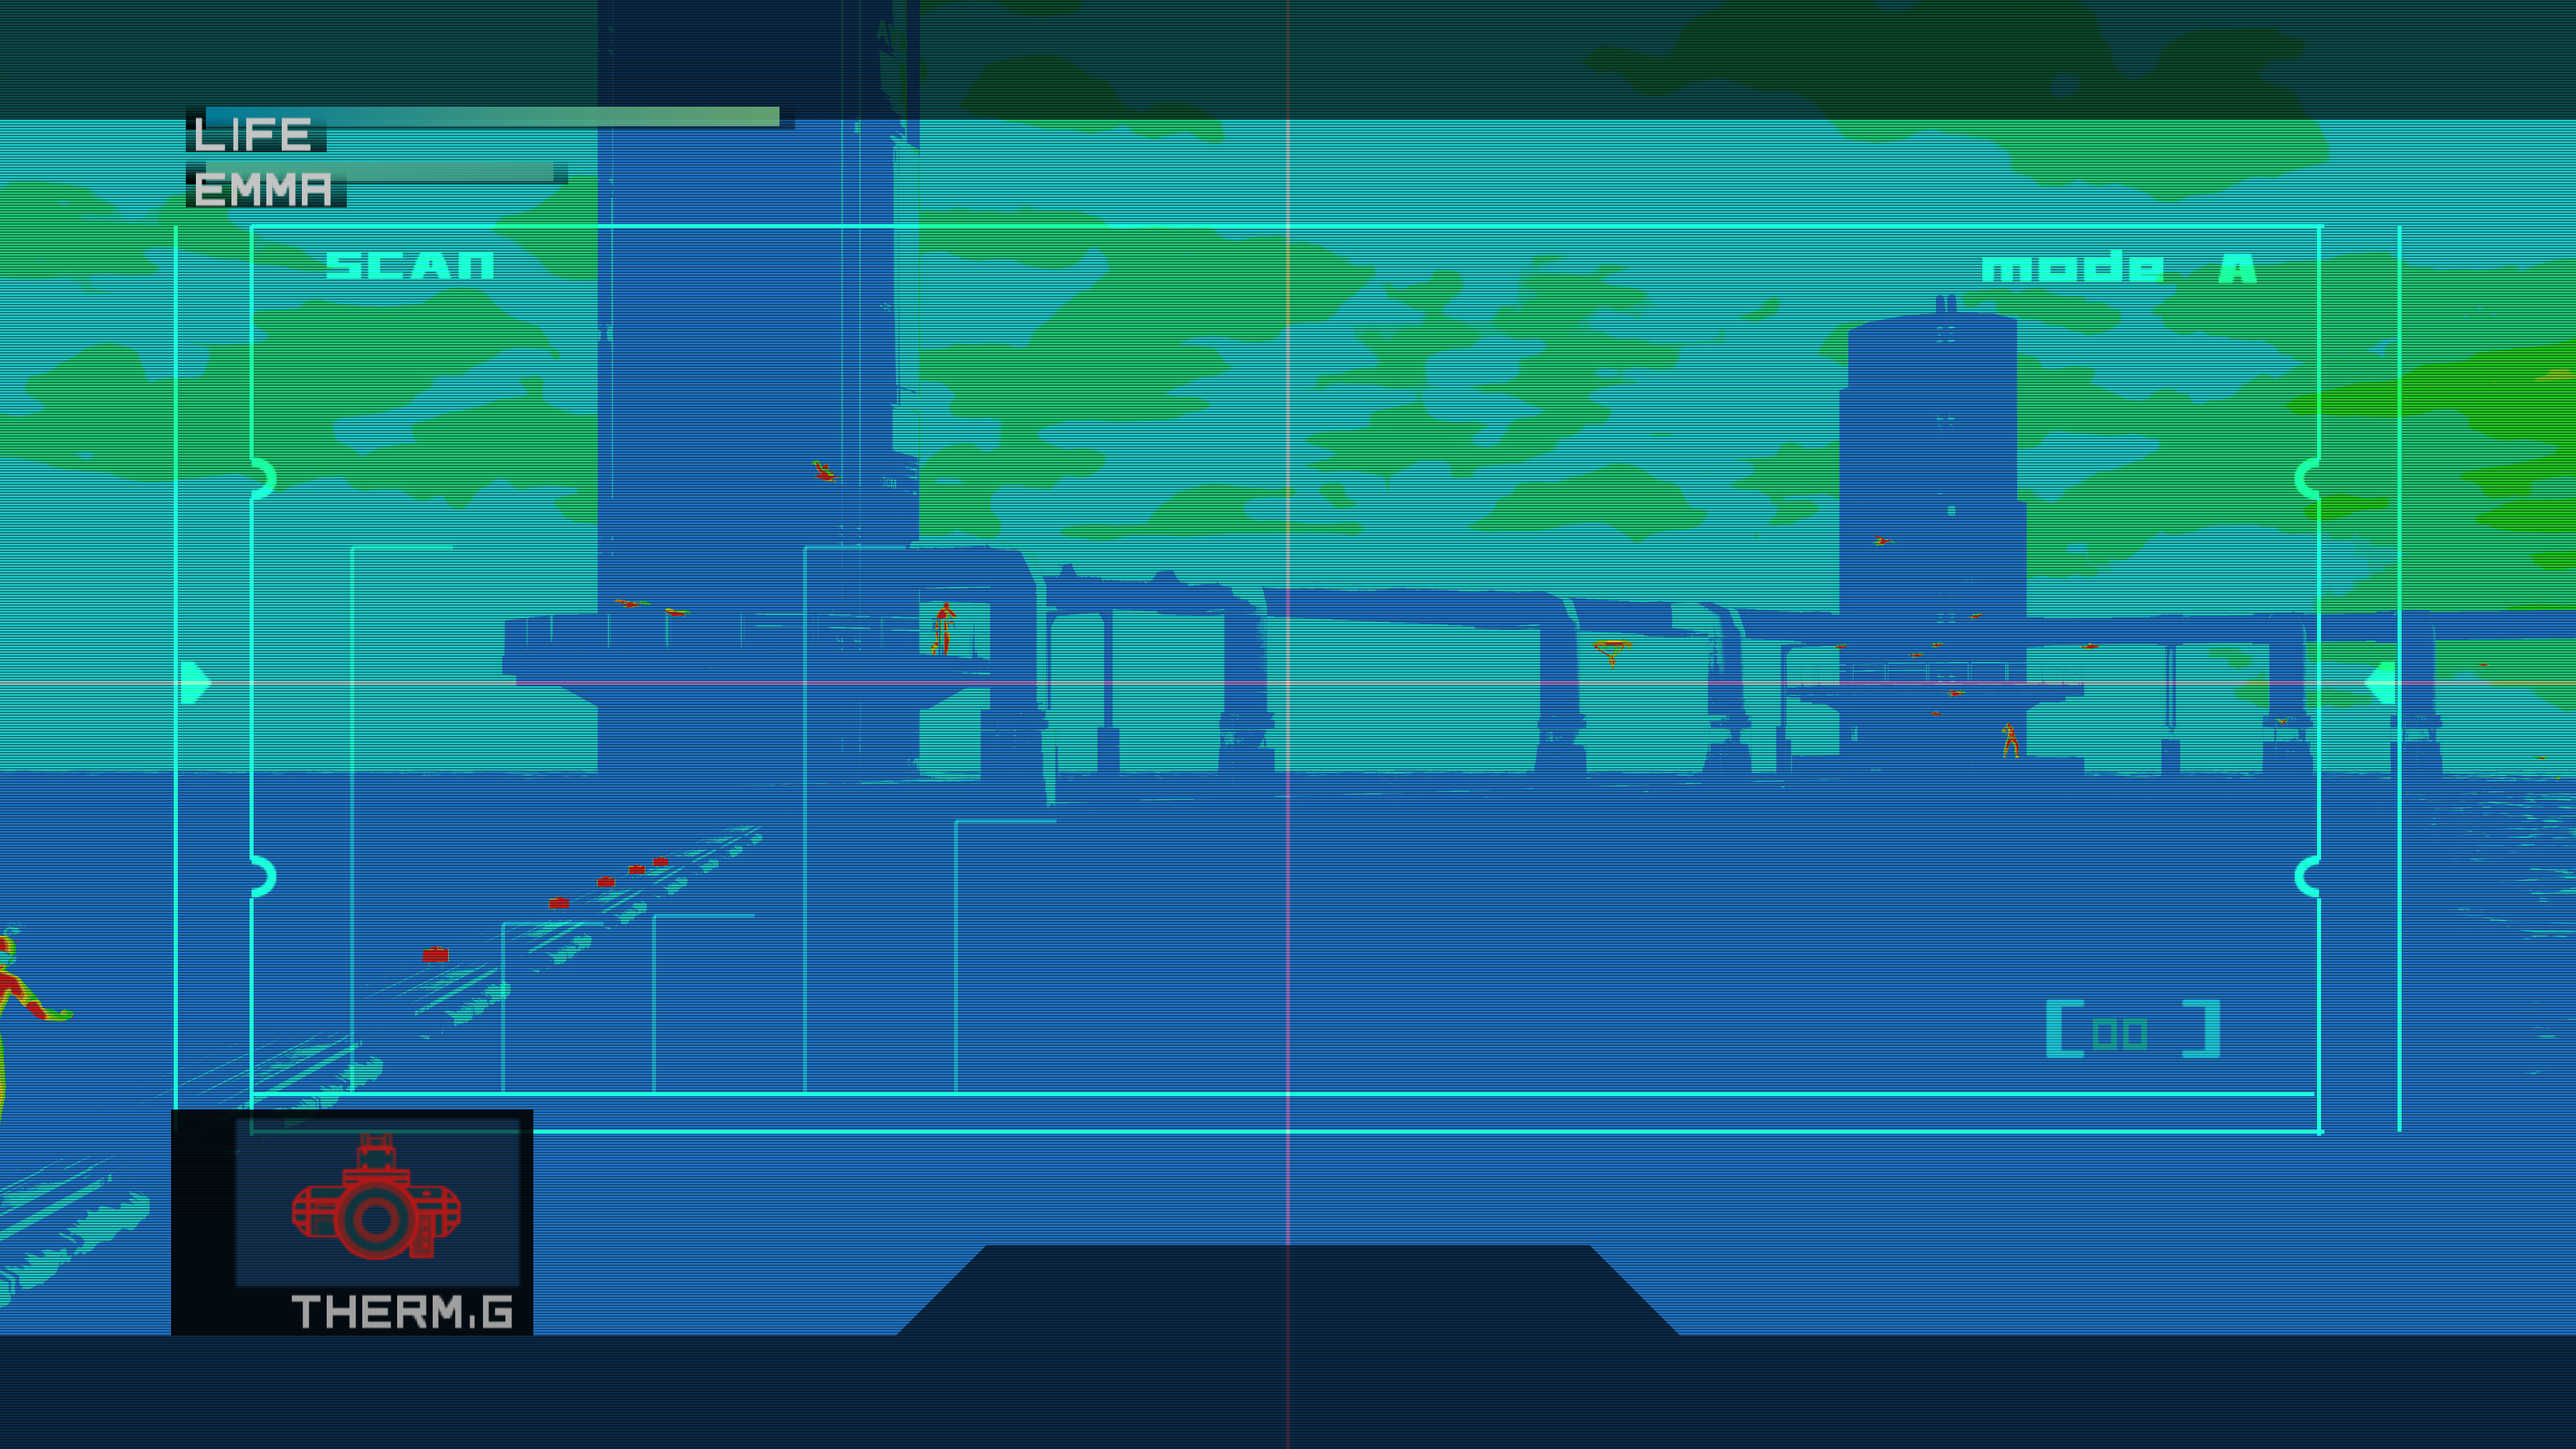
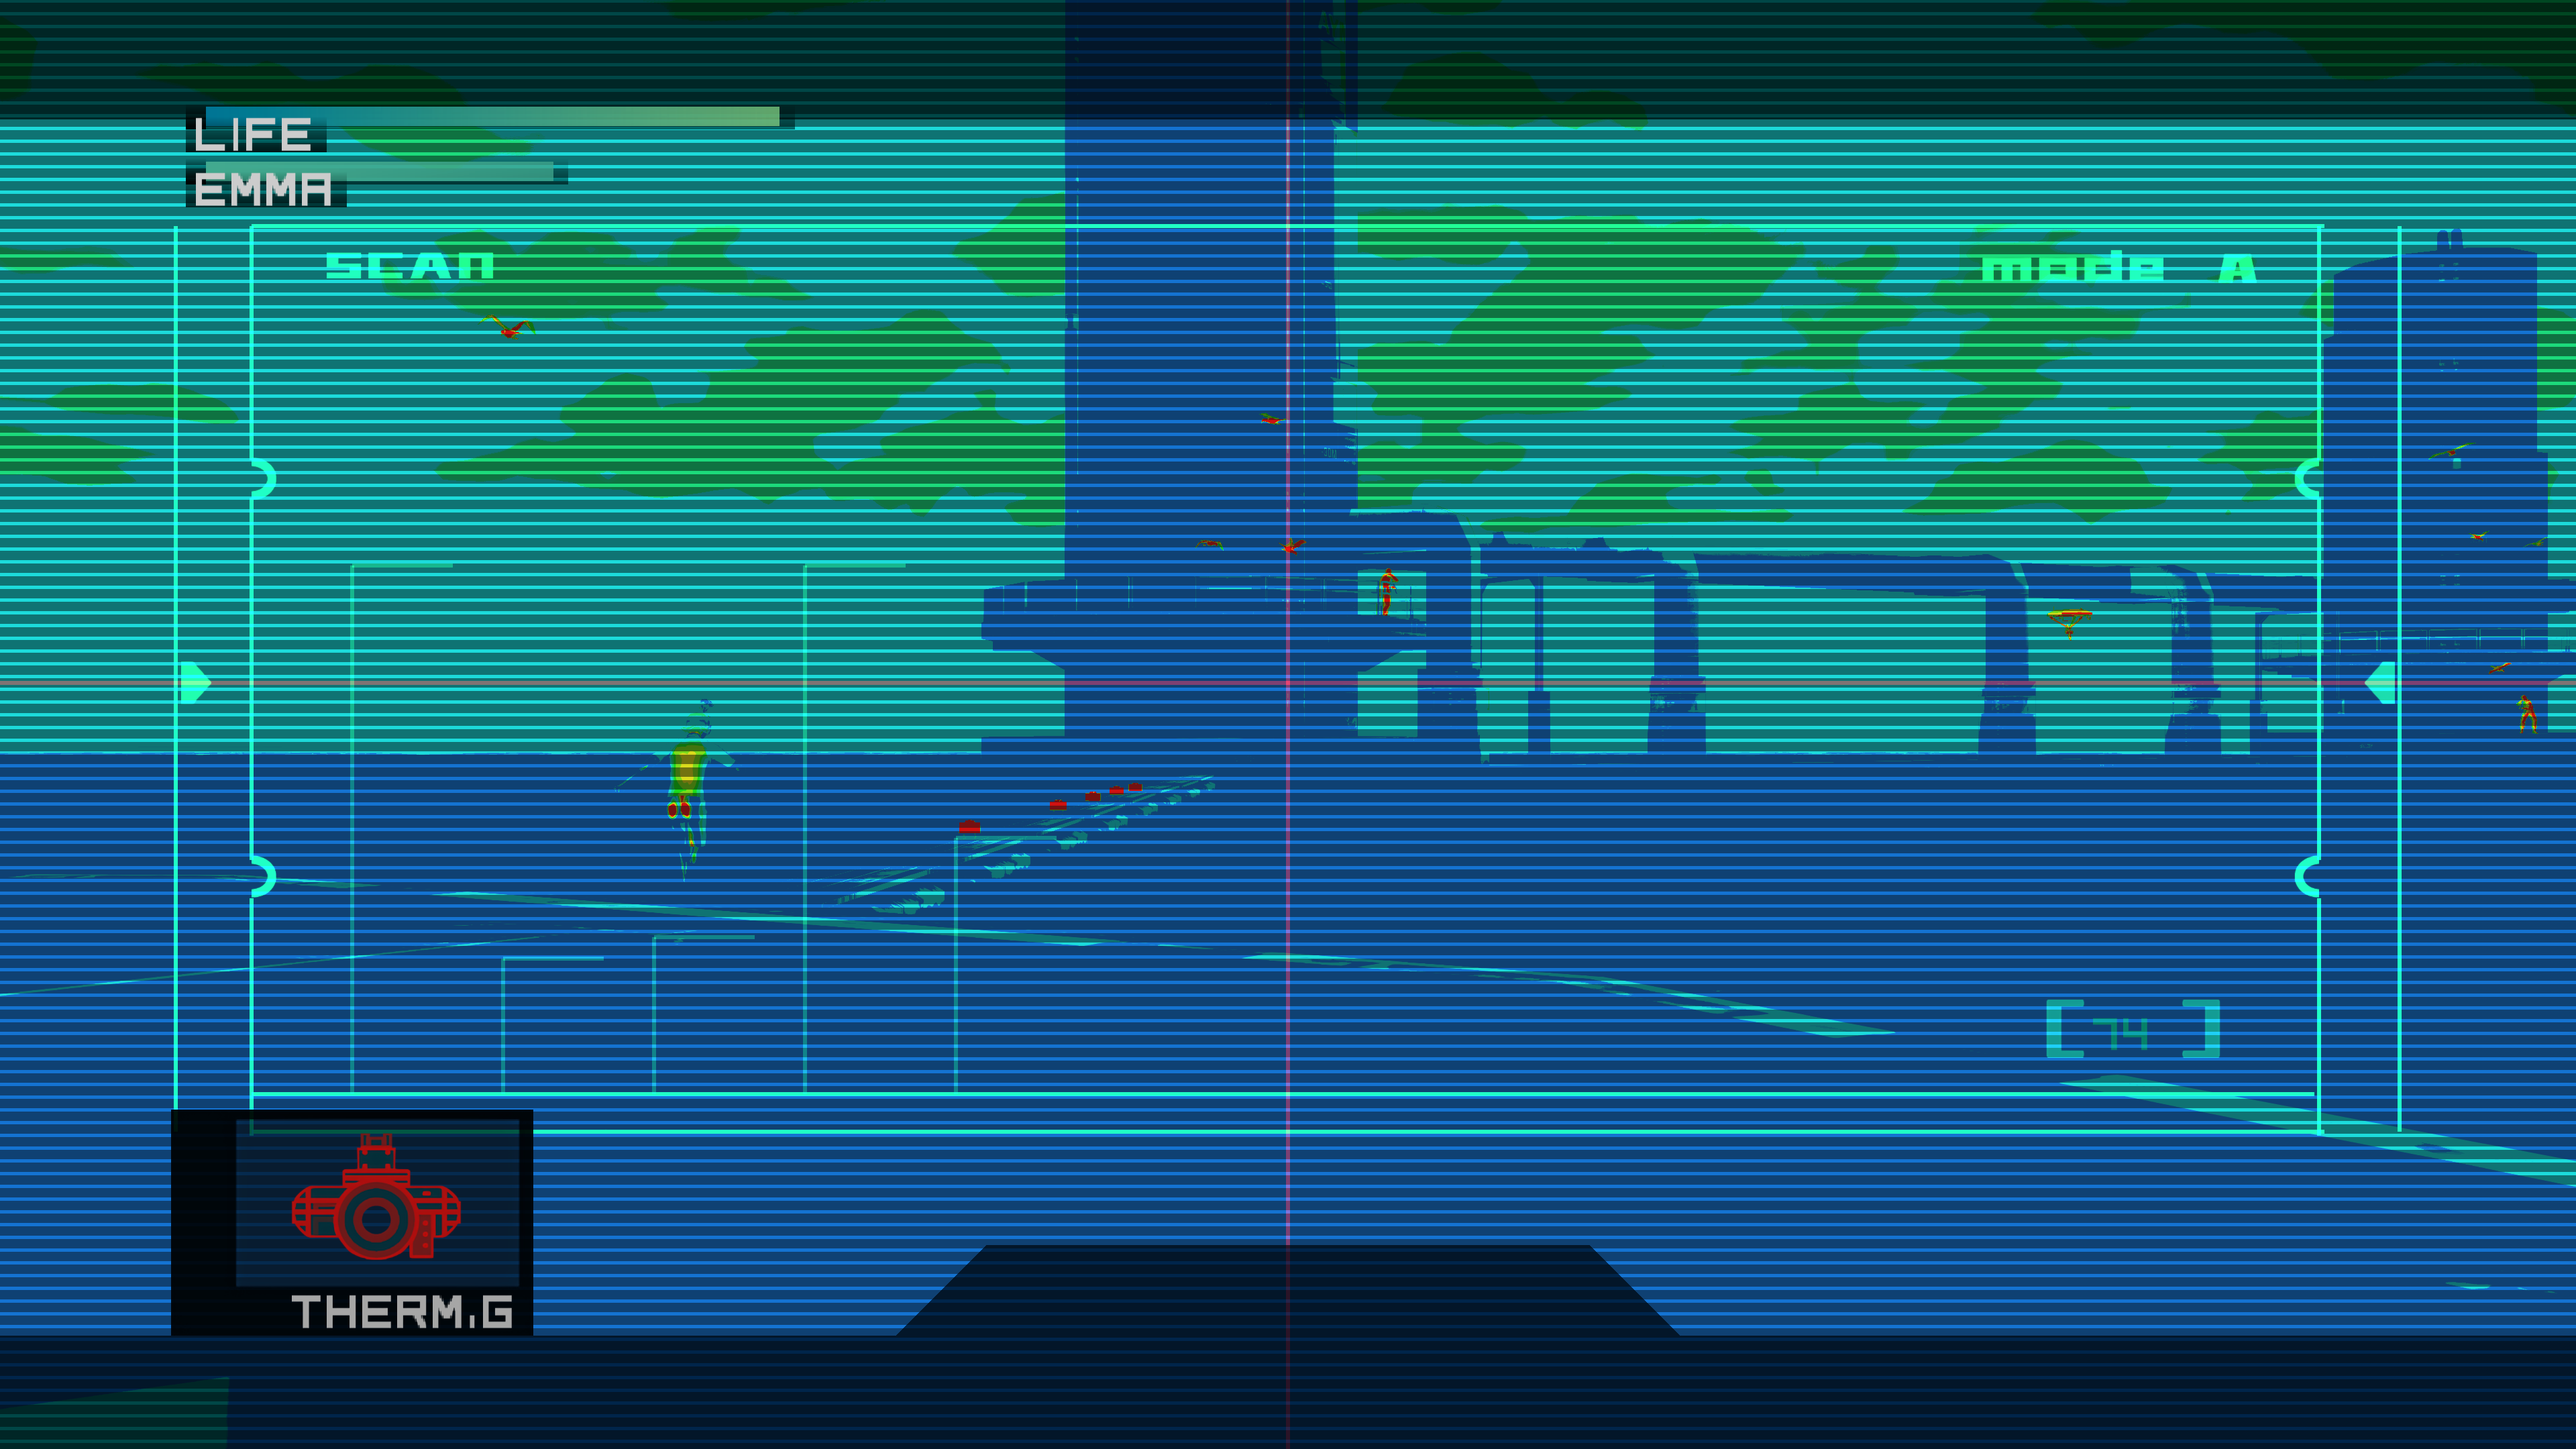
fix nvg and codec line scaling

diff --git a/src/fixes/resolution_scaling_fixes.cpp b/src/fixes/resolution_scaling_fixes.cpp
@@ -6,7 +6,6 @@
 #include "custom_resolution_and_borderless.hpp"
 #include "gamevars.hpp"
 //#include "input_handler.hpp"
-#include "game_funcs.hpp"
 #include "logging.hpp"
 #include "mgs2_linkvarbuf.hpp"
 
@@ -112,6 +111,13 @@ namespace
         *a = GS_Scale(*a, scale);
     }
 
+    void MGS3Fixes()
+    {
+        
+    }
+
+    int* g_IR_Blinds_DarkenHeight = nullptr;
+    int* g_IR_Blinds_BlankHeight = nullptr;
 }
 
 
@@ -120,12 +126,10 @@ void ResolutionScalingFixes::HandleLevelTransition()
     UpdateCharacterLaserPoints();
 }
 
+void MGS2Fixes();
+
 void ResolutionScalingFixes::ApplyFixes()
 {
-    if (!(eGameType & MGS2))
-    {
-        return;
-    }
 
     scaleX_fromPs2 = CustomResolutionAndBorderless::iInternalResX / 512.0;
     scaleX_fromPs2_4by3 = ((double)CustomResolutionAndBorderless::iInternalResX) / (double)(CustomResolutionAndBorderless::iInternalResY) / (4.0 / 3.0);
@@ -134,6 +138,51 @@ void ResolutionScalingFixes::ApplyFixes()
     SPDLOG_INFO("Resolution Scaling Fixes: Internal Width = {}, Internal Height = {}", CustomResolutionAndBorderless::iInternalResX, CustomResolutionAndBorderless::iInternalResY);
     SPDLOG_INFO("Resolution Scaling Fixes: PS2 Height Delta = {}, PS2 Width Delta = {}, PS2 Width 4:3 Delta = {}", scaleY_fromPs2, scaleX_fromPs2, scaleX_fromPs2_4by3);
 
+
+#define FIX_LINE_HEIGHT //for easy before / after screenshots in case they need to be updated yet again.
+    if (eGameType & MGS2)
+    {
+#ifdef FIX_LINE_HEIGHT  
+        g_IR_Blinds_DarkenHeight = reinterpret_cast<int*>(Memory::GetRelativeOffset(Memory::PatternScan(baseModule, "8B 0D ?? ?? ?? ?? 89 48 ?? 8B 0D ?? ?? ?? ?? 89 48 ?? B9 ?? ?? ?? ?? 48 83 C4 ?? E9", "MGS2: g_IR_Blinds_DarkenHeight") + 2));
+
+        spdlog::info("GameVars: g_IR_Blinds_DarkenHeight address is {:s}+{:X}", sExeName.c_str(), (uintptr_t)g_IR_Blinds_DarkenHeight - (uintptr_t)baseModule);
+
+        g_IR_Blinds_BlankHeight = reinterpret_cast<int*>(Memory::GetRelativeOffset(Memory::PatternScan(baseModule, "8B 0D ?? ?? ?? ?? 89 48 ?? B9 ?? ?? ?? ?? 48 83 C4 ?? E9", "MGS2: g_IR_Blinds_BlankHeight") + 2));
+        spdlog::info("GameVars: g_IR_Blinds_BlankHeight address is {:s}+{:X}", sExeName.c_str(), (uintptr_t)g_IR_Blinds_BlankHeight - (uintptr_t)baseModule);
+
+        if (g_IR_Blinds_BlankHeight && g_IR_Blinds_DarkenHeight)
+        {
+            *g_IR_Blinds_BlankHeight = 25;
+            *g_IR_Blinds_DarkenHeight = 25;
+            spdlog::info("GameVars: g_IR_Blinds_BlankHeight and g_IR_Blinds_DarkenHeight set to 25");
+        }
+#endif
+        MGS2Fixes();
+    }
+    else if (eGameType & MGS3)
+    {
+#ifdef FIX_LINE_HEIGHT
+        g_IR_Blinds_DarkenHeight = reinterpret_cast<int*>(Memory::GetRelativeOffset(Memory::PatternScan(baseModule, "8B 0D ?? ?? ?? ?? 89 48 ?? 8B 0D ?? ?? ?? ?? 89 48 ?? B9 ?? ?? ?? ?? 48 83 C4 ?? E9", "MGS3: g_IR_Blinds_DarkenHeight") + 2));
+
+        spdlog::info("GameVars: g_IR_Blinds_DarkenHeight address is {:s}+{:X}", sExeName.c_str(), (uintptr_t)g_IR_Blinds_DarkenHeight - (uintptr_t)baseModule);
+
+        g_IR_Blinds_BlankHeight = reinterpret_cast<int*>(Memory::GetRelativeOffset(Memory::PatternScan(baseModule, "8B 0D ?? ?? ?? ?? 89 48 ?? B9 ?? ?? ?? ?? 48 83 C4 ?? E9", "MGS3: g_IR_Blinds_BlankHeight") + 2));
+        spdlog::info("GameVars: g_IR_Blinds_BlankHeight address is {:s}+{:X}", sExeName.c_str(), (uintptr_t)g_IR_Blinds_BlankHeight - (uintptr_t)baseModule);
+
+        if (g_IR_Blinds_BlankHeight && g_IR_Blinds_DarkenHeight)
+        {
+            *g_IR_Blinds_BlankHeight = 25;
+            *g_IR_Blinds_DarkenHeight = 25;
+            spdlog::info("GameVars: g_IR_Blinds_BlankHeight and g_IR_Blinds_DarkenHeight set to 25");
+        }
+#endif
+        MGS3Fixes();
+    }
+}
+
+void MGS2Fixes()
+{
+    using namespace ResolutionScalingFixes;
     {   // user/mode/codec/face_bug.c -> NewBugFace() - not affected by resolution, might've just been the layout change which caused it.
 
         MAKE_HOOK_MID(baseModule, "48 89 83 ?? ?? ?? ?? E8 ?? ?? ?? ?? 48 8B 8B ?? ?? ?? ?? BA", "NewBugFace", {
@@ -170,7 +219,7 @@ void ResolutionScalingFixes::ApplyFixes()
             ctx.rax = 83; // height
             *reinterpret_cast<float*>(ctx.rsp + 0x30) = 83.0f;    // pos.x
             *reinterpret_cast<float*>(ctx.rsp + 0x34) = 40.0f;   // pos.y
-                          
+
 
                   });
 
@@ -275,18 +324,15 @@ void ResolutionScalingFixes::ApplyFixes()
         }
                   });
 
-    //todo: NewUSPLight -> light_offset: convert to per-weapon offset.
-        #define	SHIFT3_X			(17.5f)
-        #define	SHIFT4_X			(0.0f)
 
     MAKE_HOOK_MID(baseModule, "75 ?? 81 4A ?? ?? ?? ?? ?? EB ?? 83 BB", "sonoyama\\raiden\\rai_equip.c -> RaiHolsterAct() -> @ l160, Raiden M9 holster fix", {
             if (ctx.rsi == MGS2_WEAPON_INDEX_M9)
             {
                 reghelpers::SetZF(ctx, true);
             }
-        });
+                  });
 
-    
+
     MAKE_HOOK_MID(baseModule, "49 81 C0 00 01 00 00 48 83 E9 01 0F 85 ?? ?? ?? ?? 44 8D 49", "InitEyesData: color fix", {
         for (int i = 0; i < 8; i++)
         {
@@ -295,6 +341,50 @@ void ResolutionScalingFixes::ApplyFixes()
         }
                   });
 
+
+//    if (bRestorePS2NVGLineHeight)
+#ifdef FIX_LINE_HEIGHT
+    {
+        static const uint32_t darkenHeight = static_cast<uint32_t>(std::max(1.0f, std::round((14.0f / 2160.0f) * CustomResolutionAndBorderless::iInternalResY)));
+        static const uint32_t blankHeight = static_cast<uint32_t>(std::max(1.0f, std::round((5.0f / 2160.0f) * CustomResolutionAndBorderless::iInternalResY)));
+        static const int32_t verticalOffset25 = static_cast<int32_t>(std::round((3.0f / 2160.0f) * CustomResolutionAndBorderless::iInternalResY));
+
+        static const uint32_t codecLineHeight = static_cast<uint32_t>(std::max(1.0f, std::round((10.0f / 2160.0f) * CustomResolutionAndBorderless::iInternalResY)));
+        static const int32_t codecVerticalOffset = static_cast<int32_t>(std::round((-10.0f / 2160.0f) * CustomResolutionAndBorderless::iInternalResY));
+
+        MAKE_HOOK_MID(baseModule, "85 C9 ?? ?? ?? ?? 66 45 0F 6E C0", "Restore PS2 NVG Lines", {
+                if (static_cast<uint32_t>(ctx.r8) == 25 && static_cast<uint32_t>(ctx.r9) == 25)
+                {
+                    ctx.r8 = darkenHeight;
+                    ctx.r9 = blankHeight;
+                    ctx.xmm9.u32[0] = static_cast<uint32_t>(static_cast<int32_t>(ctx.xmm9.u32[0]) + verticalOffset25);
+                }
+                else
+                {
+                    ctx.r8 = codecLineHeight;
+                    ctx.r9 = codecLineHeight;
+                    ctx.xmm9.u32[0] = static_cast<uint32_t>(static_cast<int32_t>(ctx.xmm9.u32[0]) + codecVerticalOffset);
+                }
+                      });
+    }
+#endif  
+/*    else
+    {
+        static const float resolutionScale = static_cast<float>(CustomResolutionAndBorderless::iInternalResY) / 720.0f;
+        static const int32_t verticalOffset25 = static_cast<int32_t>(std::round((0.0f / 2160.0f) * CustomResolutionAndBorderless::iInternalResY));
+        static const int32_t codecVerticalOffset = static_cast<int32_t>(std::round((0.0f / 2160.0f) * CustomResolutionAndBorderless::iInternalResY));
+
+        MAKE_HOOK_MID(baseModule, "85 C9 ?? ?? ?? ?? 66 45 0F 6E C0", "Scale NVG Lines", {
+                const bool is25PixelPattern = static_cast<uint32_t>(ctx.r8) == 25 && static_cast<uint32_t>(ctx.r9) == 25;
+
+                ctx.r8 = static_cast<uint32_t>(std::max(1.0f, std::round(static_cast<float>(static_cast<uint32_t>(ctx.r8)) * resolutionScale)));
+                ctx.r9 = static_cast<uint32_t>(std::max(1.0f, std::round(static_cast<float>(static_cast<uint32_t>(ctx.r9)) * resolutionScale)));
+                ctx.xmm9.u32[0] = static_cast<uint32_t>(static_cast<int32_t>(ctx.xmm9.u32[0]) + (is25PixelPattern ? verticalOffset25 : codecVerticalOffset));
+                      });
+    }
+    */
+
+            //todo: NewUSPLight -> light_offset: convert to per-weapon offset.
 
 }
 

diff --git a/src/dllmain.cpp b/src/dllmain.cpp
@@ -582,6 +582,7 @@ static void InitializeSubsystems()
     }
     else if (eGameType & MGS3)
     {
+        INITIALIZE(ResolutionScalingFixes::ApplyFixes()); // Always load after custom resolution
         INITIALIZE(g_WaterReflectionFix.Initialize());
         INITIALIZE(MGS3HudFixes::Initialize());
         INITIALIZE(MGS3FilmGrain::Initialize());

diff --git a/src/fixes/resolution_scaling_fixes.hpp b/src/fixes/resolution_scaling_fixes.hpp
@@ -9,4 +9,5 @@ namespace ResolutionScalingFixes
 
     inline bool bFixM92FPV = false;
 
+    inline bool bRestorePS2NVGLineHeight = true;
 }

diff --git a/README.md b/README.md
@@ -189,6 +189,7 @@ This list will contain bugs which may or may not be fixed.
 | <img width="3840" height="2160" alt="mgs2 - d00t - rain 1" src="screenshots/before/mgs2%20-%20d05t%20-%20rain%20(olga).png" />    | <img width="3840" height="2160" alt="mgs2 - d00t - rain 1" src="screenshots/after/mgs2%20-%20d05t%20-%20rain%20(olga).png" />    |
 | <img width="3840" height="2160" alt="mgs2 - d00t - rain 1" src="screenshots/before/mgs2%20-%20w24a%20-%20solidus%20flames%202.png" /> | <img width="3840" height="2160" alt="mgs2 - d00t - rain 1" src="screenshots/after/mgs2%20-%20w24a%20-%20solidus%20flames%202.png" /> |
 | <img width="3840" height="2160" alt="mgs2 - d00t - rain 1" src="screenshots/before/mgs2%20-%20w32a%20-%20scope.png" />            | <img width="3840" height="2160" alt="mgs2 - d00t - rain 1" src="screenshots/after/mgs2%20-%20w32a%20-%20scope.png" />            |
+| <img width="3840" height="2160" alt="mgs2 - d00t - rain 1" src="screenshots/before/mgs2%20-%20w32a%20-%20thermals.png" />            | <img width="3840" height="2160" alt="mgs2 - d00t - rain 1" src="screenshots/after/mgs2%20-%20w32a%20-%20thermals.png" />            |
 | <img width="3840" height="2160" alt="mgs2 - d00t - rain 1" src="screenshots/before/mgs2%20-%20codec.png" />                       | <img width="3840" height="2160" alt="mgs2 - d00t - rain 1" src="screenshots/after/mgs2%20-%20codec.png" />                       |
 | <img width="3840" height="2160" alt="mgs2 - d00t - rain 1" src="screenshots/before/mgs2%20-%20w00a%20-%20aiming.png" />            | <img width="3840" height="2160" alt="mgs2 - d00t - rain 1" src="screenshots/after/mgs2%20-%20w00a%20-%20aiming.png" />            |
 | <img width="3840" height="2160" alt="mgs2 - d00t - rain 1" src="screenshots/before/solidus%20-%20d080p01.png" />            | <img width="3840" height="2160" alt="mgs2 - d00t - rain 1" src="screenshots/after/solidus%20-%20d080p01.png" />            |
